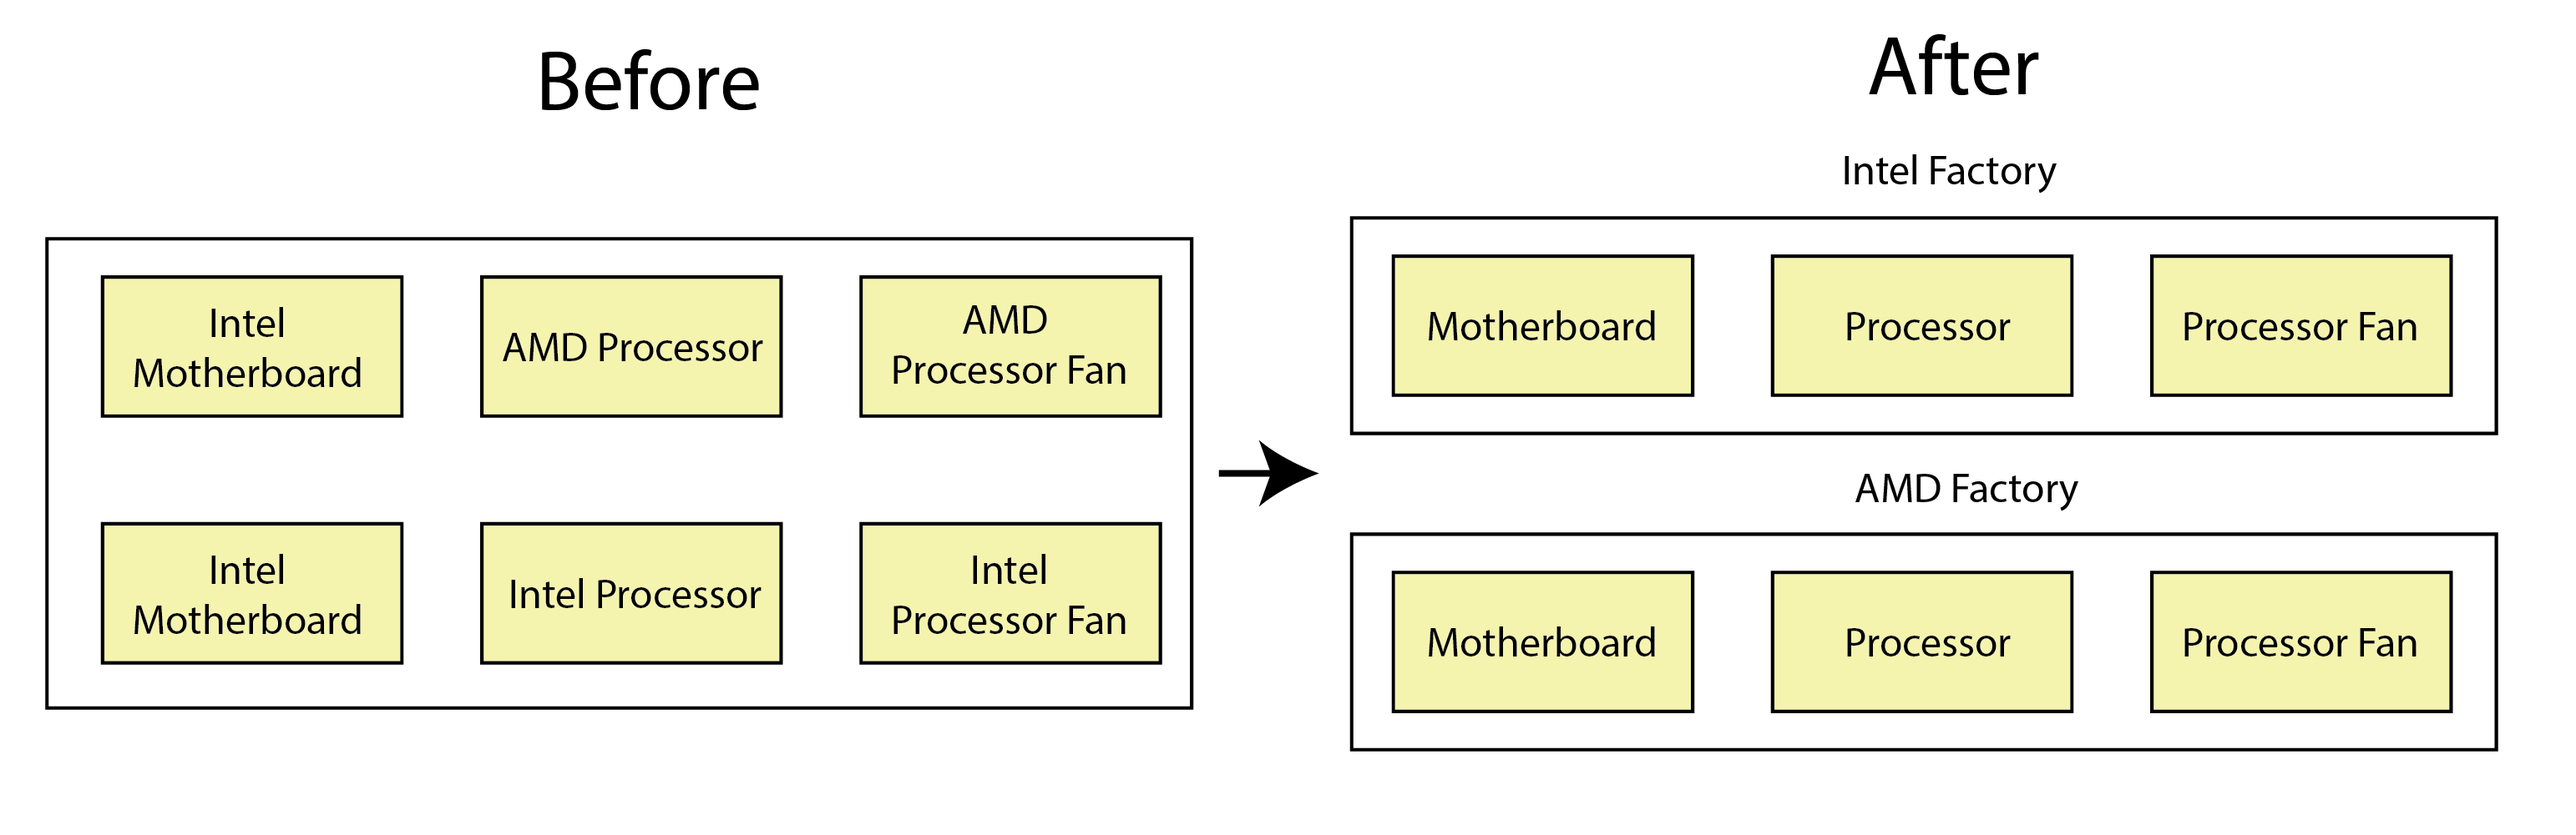
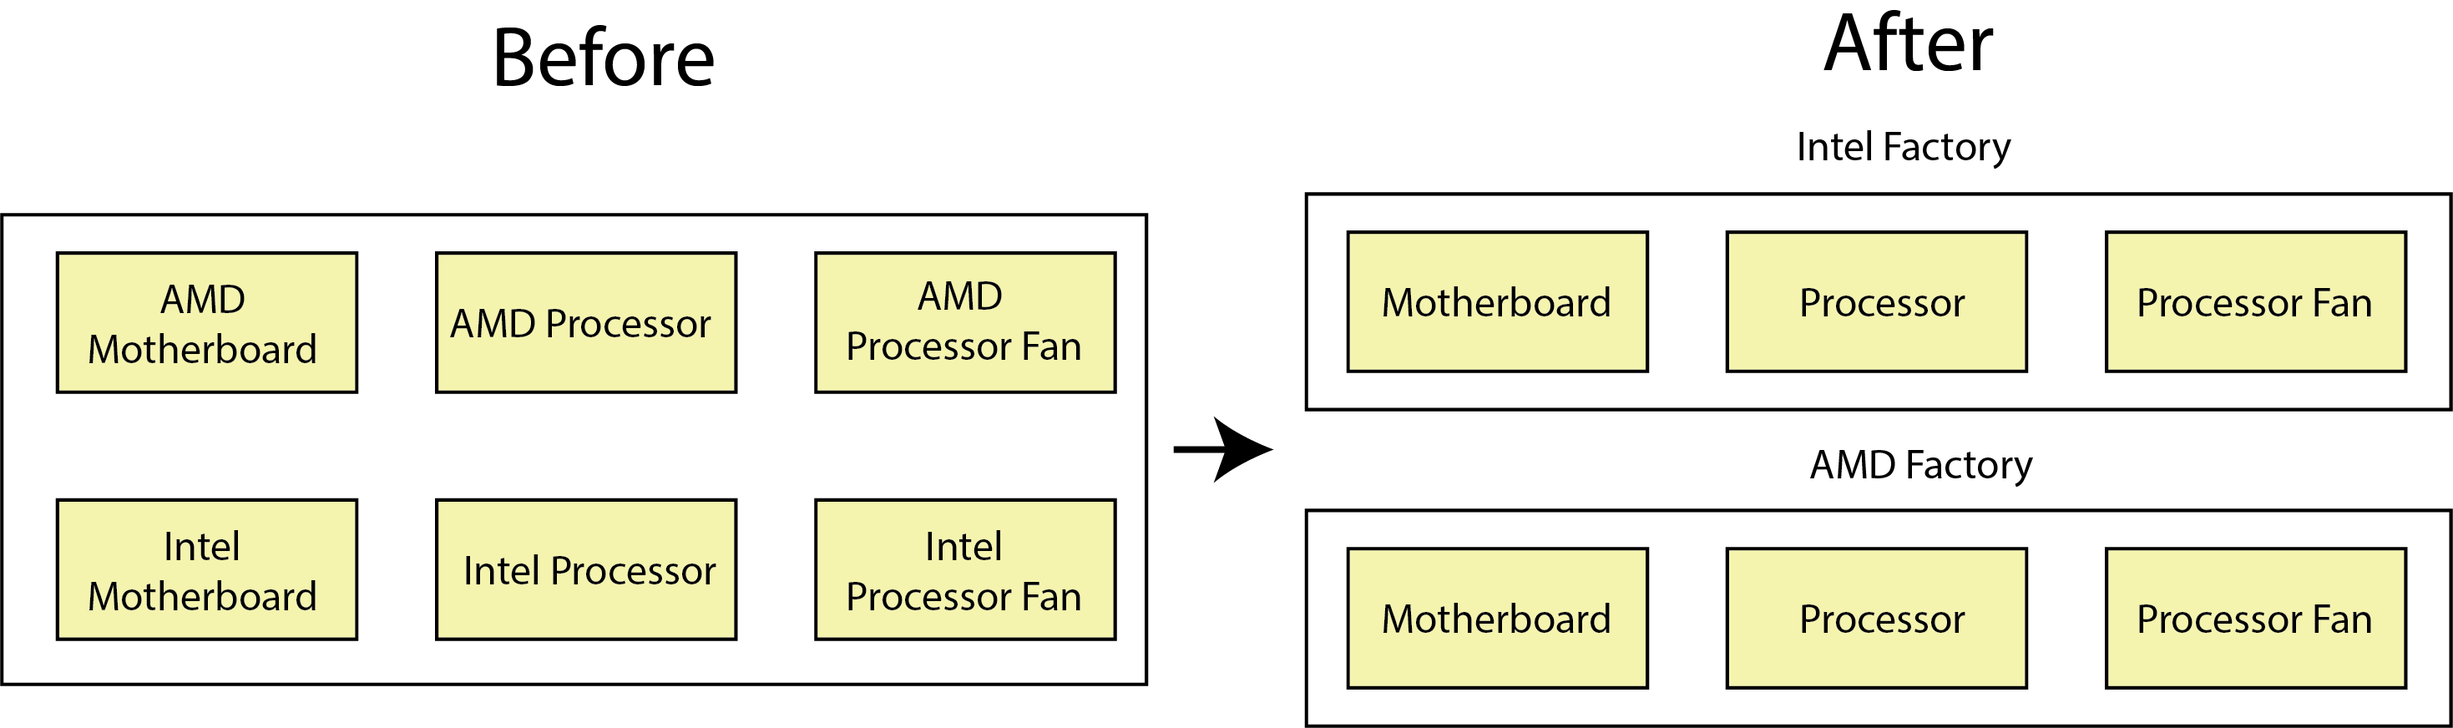
fix image illustration and reformat README.md

diff --git a/02_abstract_factory/README.md b/02_abstract_factory/README.md
@@ -6,29 +6,28 @@
 Sebagai contoh terdapat kasus dimana kita mempunyai tiga buah objek komponen dalam komputer yaitu, motherboard, processor, dan fan processor. Seperti yang kita ketahui bahwa setiap motherboard tidak mungkin support untuk semua jenis processor, dikarenakan setiap processor terutama yang berbeda vendor memiliki bentuk socket yang berbeda dan begitu pula dengan fan processornya yang harus menyesuaikan jenis processor tersebut. Pada kasus ini penulis simplikasi dengan mengasumsikan bahwa setiap motherboard, processor, dan fan processor yang dihasilkan support satu sama lain pada vendor yang sama.
 
 ![alt text](img/abstract_factory_01.png)
-Berdasarkan gambar diatas, jika sebelum menggunakan *abstract factory* kita harus mendefinisikan jenis vendor  dan jenis objek setiap kali akan mengaksesnya yang dimana ini akan memberatkan dari sisi client code karena harus menghapalkan semua objek dari masing-masing vendor. Dengan *abstract factory* kita kelompokan masing-masing objek sesuai dengan vendornya seperti yang ditunjukan pada gambar di atas, terdapat dua buah vendor factory yaitu, `Intel Factory` dan `AMD Factory`.
+Berdasarkan gambar diatas, jika sebelum menggunakan *abstract factory* kita harus mendefinisikan jenis vendor  dan objek setiap kali akan mengaksesnya yang dimana ini akan memberatkan dari sisi client code karena harus menghapalkan semua objek dari masing-masing vendor tersebut. Dengan *abstract factory* kita mengelompokan setiap objek sesuai dengan vendornya seperti yang ditunjukan pada gambar di atas, terdapat dua buah vendor factory yaitu, `Intel Factory` dan `AMD Factory`.
 
 ## Struktur Abstract Factory
 ![alt text](img/abstract_factory_02.png)
 #### 1. Abstract Products :
-Abstract products adalah bagian untuk menyimpan interface atau kontrak yang dimana setiap variant dari objek harus mengikuti interface ini, yang artinya seperti pada contoh setiap concrete products harus memiki fungsi `get_socket_type()`. Pada kasus ini terdapat tiga buah abstract products, yaitu abstract processor, abstract motherboard, dan abstract fan. Pada implementasi realcasenya setiap jenis abstract products boleh memiliki interface yang berbeda-beda sesuai dengan business logicnya.
+`Abstract products` adalah bagian untuk menyimpan interface atau kontrak yang dimana setiap variant dari objek harus mengikuti interface ini, yang artinya seperti pada contoh setiap `concrete products` harus memiki fungsi `get_socket_type()`. Pada kasus ini terdapat tiga buah `abstract products`, yaitu `abstract processor`, `abstract motherboard`, dan` abstract fan`. Pada implementasi realcasenya setiap jenis `abstract products` boleh memiliki interface yang berbeda-beda sesuai dengan business logicnya.
 
 #### 2. Concrete Products :
-Concrete products adalah bagian untuk menyimpan implementasi dari setiap variant produk yang terikat dengan abstract products. Pada kasus ini contohnya `AMD Processor` akan memiliki fungsi `get_socket_type()` yang akan mengembalikan jenis socket yang digunakan oleh vendor AMD.
+`Concrete products` adalah bagian untuk menyimpan implementasi dari setiap variant produk yang terikat dengan `abstract products`. Pada kasus ini contohnya `AMD Processor` akan memiliki fungsi `get_socket_type()` yang akan mengembalikan jenis socket yang digunakan oleh vendor AMD.
 
 #### 3. Abstract Factory :
-Abstract factory berfungsi untuk menyimpan interface jenis produk apa saja yang akan dihasilkan oleh setiap `factory`. Pada kasus ini terdapat tiga, yaitu fungsi `create_processor()`, `create_motherboard()` dan `create_fan`.
+`Abstract factory` berfungsi untuk menyimpan interface jenis produk apa saja yang akan dihasilkan oleh setiap `factory`. Pada kasus ini terdapat tiga, yaitu fungsi `create_processor()`, `create_motherboard()` dan `create_fan`.
 
 #### 4. Concrete Factory:
-Concrete factory adalah bagian yang berfungsi untuk menghasilkan `concrete product` yang terikat dengan interface `abstract factory`. Pada contoh `AMD Factory` berfungsi untuk menghasilkan produk objek dari `AMD Processor`, `AMD Motherboard` dan `AMD Fan`
+`Concrete factory` adalah bagian yang berfungsi untuk menghasilkan `concrete product` yang terikat dengan interface `abstract factory`. Pada contoh `AMD Factory` berfungsi untuk menghasilkan produk objek dari `AMD Processor`, `AMD Motherboard` dan `AMD Fan`
 
 #### 5. Factory Creator:
-*Factory creator* adalah bagian berfungsi untuk menghasilkan *concrete factory*. Bagian ini juga yang akan langsung diakses oleh client code. 
+`Factory creator` adalah bagian berfungsi untuk menghasilkan *concrete factory*. Bagian ini juga yang akan langsung diakses oleh client code. 
 
 
 ## Implementasi
-1. Kita buat terlebih dahulu `abstract products` untuk `Processor`, `Motherboard` dan `Fan`.
-
+1. Langkah pertama kita buat terlebih dahulu `abstract products` untuk `Processor`, `Motherboard` dan `Fan`.
     ```python
     ## factory/abstract_products.py
 
@@ -62,7 +61,7 @@ Concrete factory adalah bagian yang berfungsi untuk menghasilkan `concrete produ
             pass
     ```
 
-2. Lalu kita buat implementasi `concrete products` untuk masing - masing vendor.
+2. Selanjutnya, kita implementasi `concrete products` untuk masing - masing vendor meliputi `Processor`, `Motherboard` dan `Fan`.
     ```python
     ## factory/intel_products.py
 
@@ -129,8 +128,10 @@ Concrete factory adalah bagian yang berfungsi untuk menghasilkan `concrete produ
             return "AMD CPU Socket"
     ```
 
-3. Setelah itu, kita buat terlebih dahulu `abstract factory`.
+3.  Sebelum membuat `factory` untuk masing-masing vendor/families, kita buat `abstract factory` terlebih dahulu.
     ```python
+    ## factory/abstract_factory.py
+
     from abc import ABC, abstractmethod
     from .abstract_products import CPU, Motherboard, Fan
 
@@ -152,7 +153,7 @@ Concrete factory adalah bagian yang berfungsi untuk menghasilkan `concrete produ
             pass
     ```
 
-4. Lalu kita buat `concrete factory` yang berfungsi untuk membuat products untuk masing-masing vendor.
+4.  Setelah membuat `abstract factory`, kemudian kita implementasikan fungsi untuk menghasilkan `concrete factory` pada masing-masing `concrete factory` yaitu `IntelFactory` dan `AMDFactory` .
 
     ```python
     ## factory/intel_factory.py
@@ -200,27 +201,27 @@ Concrete factory adalah bagian yang berfungsi untuk menghasilkan `concrete produ
             return AmdFan()
     ```
 
-5. Setelah membuat masing-masing vendor factory, langkah selanjutnya adalah membuat `FactoryCreator`
-```python
-## factory/factory_creator.py
+5. Langkah selanjutnya adalah membuat `FactoryCreator`yang berfungsi untuk menghasilkan `concrete factory`
+    ```python
+    ## factory/factory_creator.py
 
-from .abstract_factory import AbstractFactory
-from .amd_factory import AMDFactory
-from .intel_factory import IntelFactory
+    from .abstract_factory import AbstractFactory
+    from .amd_factory import AMDFactory
+    from .intel_factory import IntelFactory
 
-class FactoryCreator:
-    def __init__(self):
-        self.factories = {
-            "intel": IntelFactory,
-            "amd": AMDFactory,
-        }
+    class FactoryCreator:
+        def __init__(self):
+            self.factories = {
+                "intel": IntelFactory,
+                "amd": AMDFactory,
+            }
 
-    def create_factory(self, name) -> AbstractFactory:
-        if name in self.factories.keys():
-            return self.factories[name]()
-        else:
-            raise Exception('f factory with {name} name not supported!')
-```
+        def create_factory(self, name) -> AbstractFactory:
+            if name in self.factories.keys():
+                return self.factories[name]()
+            else:
+                raise Exception('f factory with {name} name not supported!')
+    ```
 
 6. Terakhir, pada client code kita dapat mengakses objek dari masing-masing vendor sebagai berikut.
     ```python
